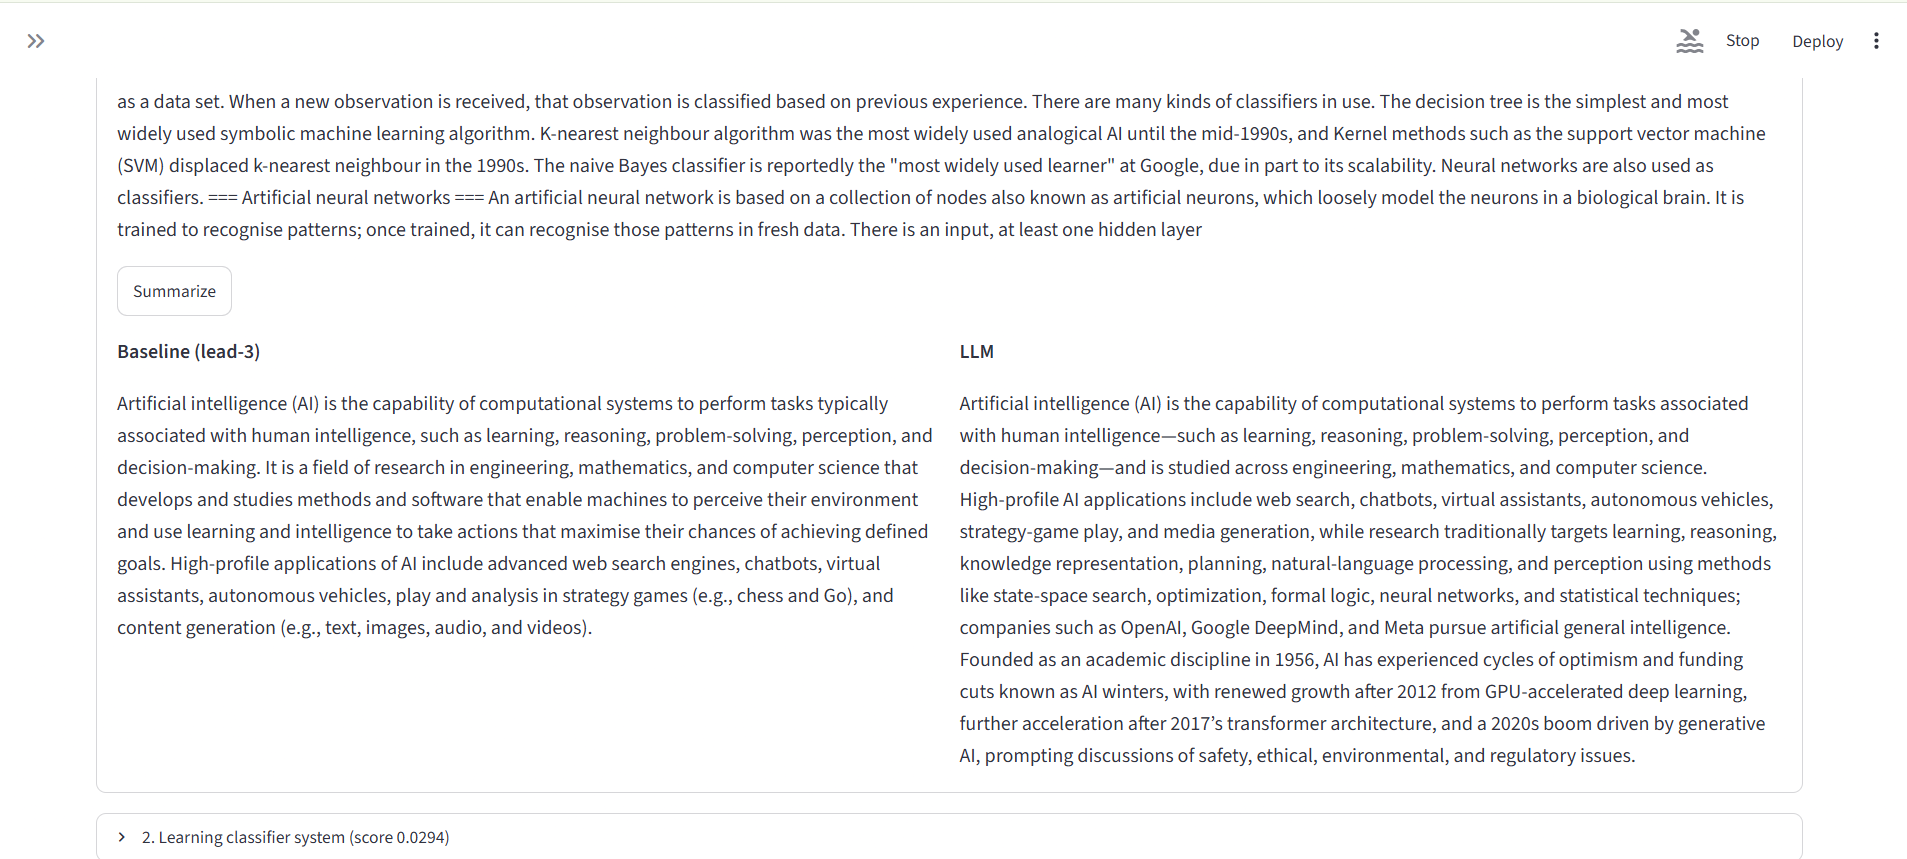
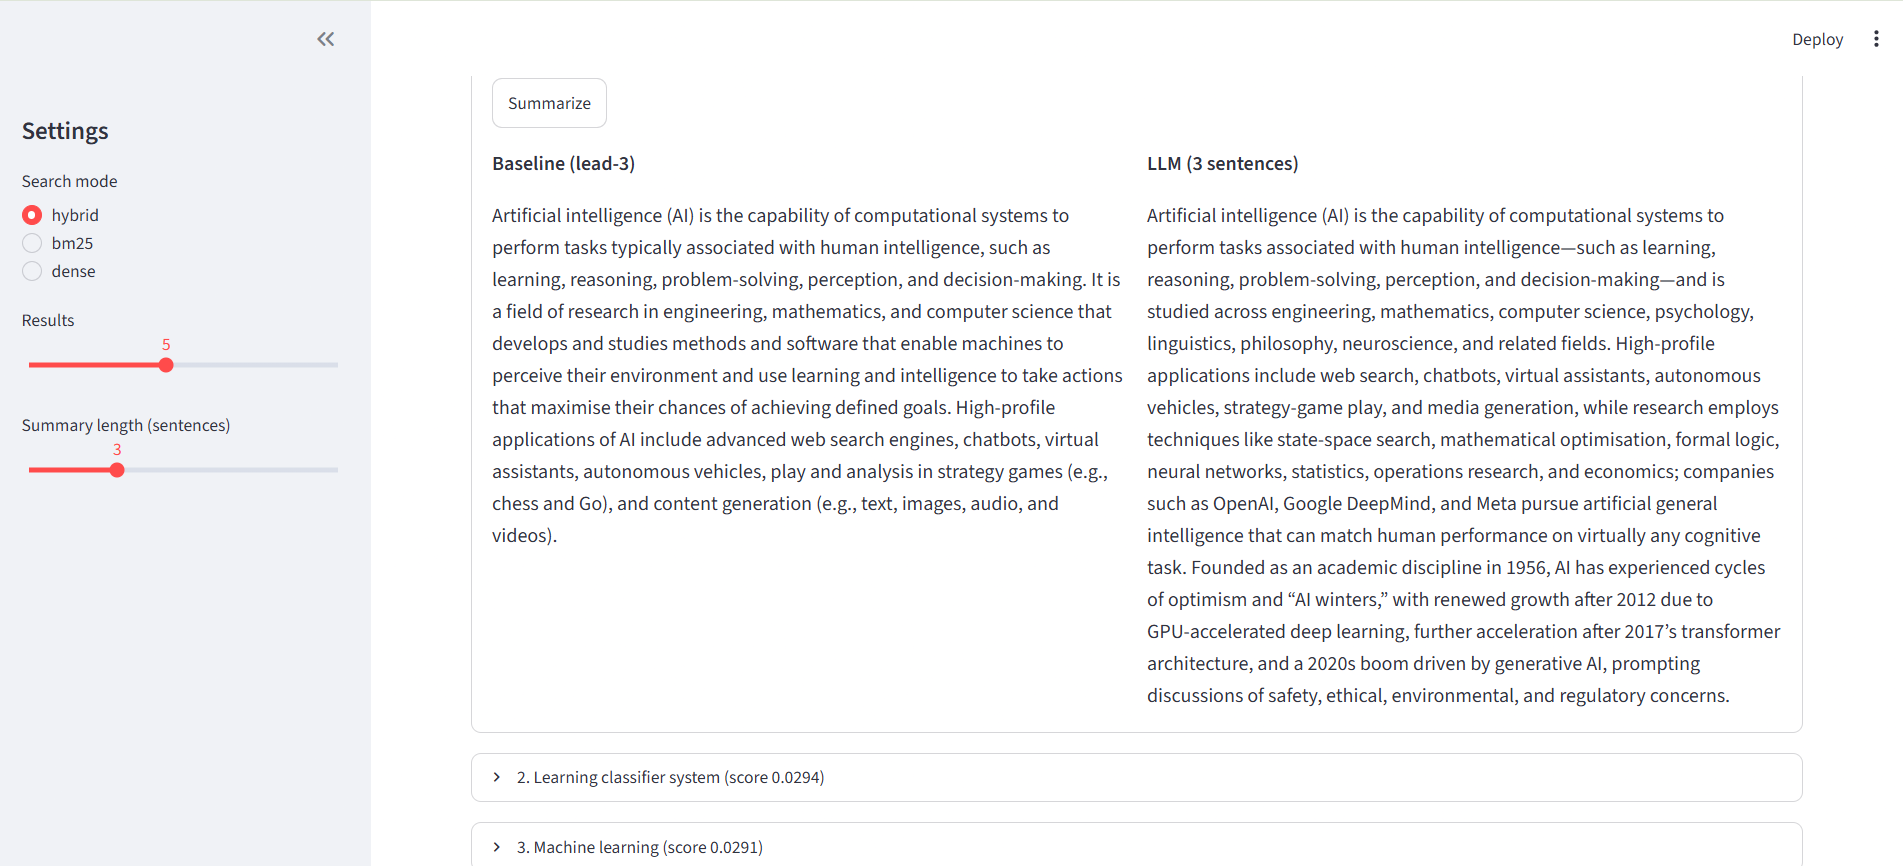
Task 5: summary length option, full report, updated README and screenshots

diff --git a/document_search/app.py b/document_search/app.py
@@ -12,8 +12,8 @@ def get_searcher():
 
 
 @st.cache_data(show_spinner=False)
-def get_llm_summary(doc_id, text):
-    return llm_summary(text)
+def get_llm_summary(doc_id, text, sentences):
+    return llm_summary(text, sentences=sentences)
 
 
 searcher = get_searcher()
@@ -26,6 +26,7 @@ with st.sidebar:
     st.header("Settings")
     mode = st.radio("Search mode", ["hybrid", "bm25", "dense"], index=0)
     k = st.slider("Results", 1, 10, 5)
+    n_sent = st.slider("Summary length (sentences)", 1, 8, 3)
 
 query = st.text_input("Search query", placeholder="e.g. how does backpropagation work")
 
@@ -42,14 +43,14 @@ if query.strip():
                 text = doc_text[r["doc_id"]]
                 col1, col2 = st.columns(2)
                 with col1:
-                    st.markdown("**Baseline (lead-3)**")
-                    st.write(baseline_summary(text))
+                    st.markdown(f"**Baseline (lead-{n_sent})**")
+                    st.write(baseline_summary(text, n=n_sent))
                 with col2:
-                    st.markdown("**LLM**")
+                    st.markdown(f"**LLM ({n_sent} sentences)**")
                     with st.spinner("LLM summarizing..."):
                         try:
-                            st.write(get_llm_summary(r["doc_id"], text))
+                            st.write(get_llm_summary(r["doc_id"], text, n_sent))
                         except Exception as e:
                             st.error(f"LLM error: {e}")
 else:
-    st.info("Type Your Query.")
+    st.info("Type your query.")

diff --git a/document_search/REPORT.md b/document_search/REPORT.md
@@ -5,13 +5,58 @@
 A search and summarization system over a 1000-article AI/ML Wikipedia corpus:
 
 - **Search:** BM25 + MiniLM (all-MiniLM-L6-v2) chunk embeddings, fused with Reciprocal Rank Fusion (RRF).
-- **Summarization:** lead-3 extractive baseline vs LLM abstractive summaries (Groq, openai/gpt-oss-120b).
-- **Evaluation:** Hit@5 / MRR for search, ROUGE and a blind human A/B test for summaries.
-- **UI:** Streamlit app (`app.py`).
+- **Summarization:** lead-N extractive baseline vs LLM abstractive summaries (Groq, openai/gpt-oss-120b). The user chooses the summary length (1-8 sentences).
+- **Evaluation:** Hit@5 / MRR for search; ROUGE and a blind human A/B test for summaries.
+- **UI:** Streamlit app (`app.py`) with search mode, number of results and summary length controls.
 
-## 2. Search Evaluation
+## 2. Data Preparation
 
-30 queries, a result counts as a hit if the expected article is in the top 5.
+### 2.1 Corpus
+
+English Wikipedia, AI/ML topics only, collected through the Wikipedia API (`collect_data.py`):
+
+- Articles from 8 root categories (Machine learning, Artificial intelligence, Deep learning, Natural language processing, Computer vision, Artificial neural networks, Reinforcement learning, Large language models), including up to 15 subcategories per category.
+- A list of 43 seed titles (core topics such as Backpropagation, Gradient descent, Support vector machine) added explicitly, so that the main concepts are always in the corpus.
+- Articles shorter than 500 characters are dropped (stubs and redirects have no useful content). The corpus is capped at 1000 articles.
+- Each document is stored as `id, title, url, text` in `data/documents.json`.
+
+Justification: a single-domain corpus keeps search evaluation meaningful (queries have clear expected articles), and Wikipedia gives long, well-structured text suitable for both search and summarization.
+
+### 2.2 Cleaning
+
+Wikipedia text contains LaTeX math markup (for example `{\displaystyle ...}`) that adds noise to summaries and snippets. `clean_text()` in `summarize.py`:
+
+- removes `{\displaystyle ...}` blocks (including nested braces) and leftover LaTeX commands,
+- removes empty brackets and parentheses left behind,
+- normalizes whitespace and stray spaces before punctuation.
+
+The cleaned text is used for summarization. The effect on ROUGE is described in section 4.1.
+
+### 2.3 Chunking
+
+For embeddings, each article is split into 150-word chunks with a 120-word step (30-word overlap), so a long article is not squeezed into one vector and a topic that appears in the middle of an article can still be found.
+
+## 3. Methodology
+
+### 3.1 Search
+
+1. **BM25** (`rank_bm25`) over title + full text of each article. Strong on exact keywords.
+2. **Dense retrieval:** all-MiniLM-L6-v2 embeddings of every chunk (normalized), cosine similarity with the query. The best chunk per article gives the article rank and the result snippet. Embeddings are computed once and cached in `data/chunk_embeddings.npy`.
+3. **Hybrid:** Reciprocal Rank Fusion with k=60 over the top 50 candidates of both rankings. RRF needs no score normalization between BM25 and cosine similarity.
+
+The top N results (N set by the user) are returned with title, URL, score and best-matching excerpt.
+
+### 3.2 Summarization
+
+- **Baseline:** lead-N, the first N sentences of the cleaned article.
+- **LLM:** the cleaned article (truncated to the first 12,000 characters) is sent to the LLM with a prompt asking for an N-sentence plain-text summary. The same N is used for the baseline in the UI, so both are compared at equal length.
+- Provider and model come from `.env` (`llm.py`), so the provider can be swapped without code changes.
+
+## 4. Evaluation
+
+### 4.1 Search
+
+Test set: 30 queries, each written to describe one expected article without naming it (for example "model memorizes training data and fails on new data" -> Overfitting). A query counts as a hit if the expected article is in the top 5.
 
 | Mode | Hit@5 | MRR |
 |---|---|---|
@@ -19,26 +64,26 @@ A search and summarization system over a 1000-article AI/ML Wikipedia corpus:
 | Dense | 0.800 | 0.558 |
 | Hybrid (RRF) | 0.867 | 0.611 |
 
-Hybrid is best on both metrics: +10 points Hit@5 over BM25 and +6.7 over dense. BM25 catches exact keyword matches, dense retrieval catches paraphrases, and RRF combines the two rankings without needing score normalization.
+Hybrid is best on both metrics: +10 points Hit@5 over BM25 and +6.7 over dense. BM25 catches exact keyword matches, dense retrieval catches paraphrases, and RRF combines the two rankings.
 
-**Observed weakness:** for the broad query "supervised learning", the top hybrid result was "Representation learning" rather than the "Supervised learning" article. Broad topic queries match many related articles that mention the term often, and chunk-level retrieval can favor a chunk with dense keyword usage over the article that is actually about the topic.
+**Observed weakness:** for the broad query "supervised learning", the top hybrid result was "Representation learning" instead of the "Supervised learning" article. Broad topic queries match many related articles that use the term heavily, and chunk-level retrieval can favor a keyword-dense chunk over the article that is actually about the topic.
 
-## 3. Summarization Evaluation
+### 4.2 Summaries: ROUGE
 
-### 3.1 ROUGE
-
-20 documents, the article's intro paragraph as reference, LaTeX removed by `clean_text`.
+20 documents, the article's intro paragraph as reference.
 
 | Method | ROUGE-1 | ROUGE-2 | ROUGE-L |
 |---|---|---|---|
 | Lead-3 baseline | 0.274 | 0.066 | 0.155 |
 | LLM | 0.305 | 0.051 | 0.153 |
 
+Before LaTeX cleaning the numbers were 0.264 / 0.060 / 0.149 (baseline) and 0.308 / 0.056 / 0.154 (LLM). Cleaning helped the baseline in all three metrics, because lead-3 copies the noisy text directly.
+
 The LLM is higher on ROUGE-1, lower on ROUGE-2, and tied on ROUGE-L. The reference is the article's own intro, and lead-3 copies the first sentences of the same text, so lead-3 has a built-in advantage in exact bigram overlap. The LLM paraphrases, which lowers exact n-gram matches even when the content is good. ROUGE alone therefore understates the LLM.
 
-### 3.2 Human evaluation
+### 4.3 Summaries: human evaluation
 
-10 documents, blind A/B (positions randomly shuffled, key stored separately), 1-5 rating for accuracy and coverage of the main point.
+10 documents, blind A/B (positions randomly shuffled, key stored in a separate file), 1-5 rating for accuracy and coverage of the main point.
 
 | Method | Average rating |
 |---|---|
@@ -47,25 +92,44 @@ The LLM is higher on ROUGE-1, lower on ROUGE-2, and tied on ROUGE-L. The referen
 
 Per-document comparison: LLM won 2, baseline won 1, tied 7.
 
-The LLM has a slight edge, but with only 10 samples and 7 ties the difference is not statistically meaningful. The two methods perform similarly on this corpus. The LLM's advantage showed up on articles whose opening sentences are definitions with missing formulas or lack the main topic (for example WaveNet, where lead-3 only covered text-to-speech background). Lead-3 does well when the opening paragraph is already a good summary.
+The LLM has a slight edge, but with only 10 samples and 7 ties the difference is not statistically meaningful. The LLM helped most on articles whose opening sentences do not state the main topic (for example WaveNet, where lead-3 only covered text-to-speech background). Lead-3 does well when the opening paragraph is already a good summary.
 
-## 4. Limitations
+## 5. Challenges and Solutions
+
+| Challenge | Solution |
+|---|---|
+| LaTeX markup in Wikipedia text made summaries and snippets noisy | Added `clean_text()` with brace-aware removal; baseline ROUGE improved on all metrics |
+| Some expected articles for test queries were missing from the corpus (category crawling alone does not guarantee core topics) | Added a seed title list so the main concepts are always collected; Hit@5 and MRR are measured only on queries whose expected article is in the corpus |
+| Gemini free-tier daily quota ran out during evaluation | `llm.py` supports multiple providers through `.env`; switched to Groq (openai/gpt-oss-120b) |
+| ROUGE favors extractive summaries when the intro is the reference | Added a blind human A/B evaluation and discussed the bias |
+| Human evaluation sheet could not be rated reliably in a spreadsheet | Wrote `rate_human_eval.py` to rate in the terminal and compute averages with the hidden key |
+| Large generated data (embeddings, corpus) should not live in git | `data/` is git-ignored; `collect_data.py` regenerates the corpus and the embedding cache is rebuilt on first run |
+
+## 6. Scalability and Efficiency
+
+- Chunk embeddings are computed once and cached, so startup after the first run only loads a `.npy` file.
+- The Streamlit app loads the search index once (`@st.cache_resource`), and LLM summaries are cached per document and length (`@st.cache_data`).
+- Dense search is a single matrix-vector product over all chunks, which is fine for thousands of documents. For millions of chunks, the next step would be an approximate nearest neighbor index (FAISS or HNSW) and an inverted-index BM25 engine.
+
+## 7. Limitations
 
 - **Text cleaning gaps:** removing LaTeX leaves broken phrases such as "is where is an increasing function", which hurts both methods.
 - **Reference choice:** using the intro paragraph as reference favors extractive methods under ROUGE.
 - **Small human eval:** 10 documents, one rater, so no inter-rater agreement and low statistical power.
-- **Small query set:** 30 queries, one expected article per query, so related-but-valid results count as misses.
+- **Small query set:** 30 queries, one expected article each, so related-but-valid results count as misses.
 - **Chunk snippets:** snippets can start mid-sentence and contain Wikipedia markup (`== Heading ==`).
-- **LLM cost and dependency:** LLM summaries need an API key and are rate-limited (the Gemini free tier quota ran out, so Groq is used).
+- **LLM dependency:** LLM summaries need an API key and are rate-limited on free tiers.
+- **No fine-tuning:** the LLM and embedding model are used as they are.
 
-## 5. Possible Improvements
+## 8. Possible Improvements
 
 - Strip Wikipedia section markup from snippets.
 - Add a cross-encoder reranker on the top 20 hybrid results.
 - Boost exact title matches for short broad queries.
+- Add pagination and query auto-suggestion to the UI.
 - Evaluate summaries with additional metrics (BERTScore) and more human raters.
 
-## 6. Screenshots
+## 9. Screenshots
 
 | Search results | Summaries side by side | Search modes |
 |---|---|---|

diff --git a/document_search/README.md b/document_search/README.md
@@ -1,6 +1,13 @@
 # Task 5: Document Search + Summarization
 
-Hybrid search (BM25 + dense embeddings + RRF) over a 1000-article AI/ML Wikipedia corpus, with LLM and lead-3 summaries, evaluated with ROUGE and a blind human A/B test. A Streamlit app ties it together.
+Hybrid search (BM25 + dense embeddings + RRF) over a 1000-article AI/ML Wikipedia corpus, with LLM and lead-N summaries, evaluated with ROUGE and a blind human A/B test. A Streamlit app ties it together. Full analysis in [REPORT.md](REPORT.md).
+
+## Features
+
+- Hybrid search: BM25 + MiniLM chunk embeddings + Reciprocal Rank Fusion, with a switch to compare `bm25`, `dense` and `hybrid`
+- Top-N results (1-10) with title, link, score and best-matching excerpt
+- Summaries on demand: LLM summary next to a lead-N baseline, with adjustable summary length (1-8 sentences)
+- Evaluation: Hit@5 / MRR for search, ROUGE and blind human A/B rating for summaries
 
 ## Setup
 
@@ -24,7 +31,7 @@ GROQ_MODEL=openai/gpt-oss-120b
 
 ## Run
 
-Run everything from this folder (paths are relative).
+Run everything from this folder (paths are relative). The `data/` folder is not in git, so run `collect_data.py` first.
 
 ```powershell
 python collect_data.py          # downloads Wikipedia articles -> data/documents.json
@@ -38,6 +45,14 @@ python rate_human_eval.py       # rate in terminal, prints averages
 
 Warning: `make_human_eval.py` reshuffles A/B and overwrites the key. Do not re-run it after rating.
 
+## Using the web app
+
+1. Type a query (for example `how does backpropagation work`).
+2. Sidebar: choose the search mode, the number of results and the summary length.
+3. Open a result and click **Summarize** to see the lead-N baseline and the LLM summary side by side.
+
+The first start takes longer because the model loads and, on a fresh clone, the embeddings are built once.
+
 ## Files
 
 | File | Purpose |
@@ -45,12 +60,14 @@ Warning: `make_human_eval.py` reshuffles A/B and overwrites the key. Do not re-r
 | `collect_data.py` | Wikipedia API crawler (categories + seed titles) |
 | `search.py` | `HybridSearcher`: BM25, MiniLM chunk embeddings (cached), RRF fusion |
 | `llm.py` | `generate()` wrapper, provider chosen via `.env` |
-| `summarize.py` | `clean_text`, lead-3 baseline, LLM summary |
+| `summarize.py` | `clean_text`, lead-N baseline, LLM summary |
 | `evaluate_search.py` | Retrieval evaluation on 30 queries |
 | `evaluate_summaries.py` | ROUGE evaluation on 20 docs |
 | `make_human_eval.py`, `rate_human_eval.py` | Blind human evaluation |
 | `app.py` | Streamlit UI |
-| `REPORT.md` | Full results and analysis |
+| `REPORT.md` | Full report: preprocessing, methodology, evaluation, challenges |
+| `screenshots/` | UI screenshots |
+| `results/` | Summaries, human ratings and key |
 
 ## Design choices
 
@@ -58,7 +75,7 @@ Warning: `make_human_eval.py` reshuffles A/B and overwrites the key. Do not re-r
 - **Hybrid retrieval:** BM25 handles exact keywords, dense embeddings handle paraphrases, Reciprocal Rank Fusion (k=60) merges the rankings without score normalization.
 - **Chunking:** 150-word chunks with 120-word step for embeddings; the best chunk becomes the result snippet. Embeddings are cached in `data/chunk_embeddings.npy`.
 - **Text cleaning:** Wikipedia LaTeX (`{\displaystyle ...}`) is removed before summarization.
-- **Summaries:** lead-3 extractive baseline vs LLM abstractive summary.
+- **Summaries:** lead-N extractive baseline vs LLM abstractive summary, same length for both.
 
 ## Results
 
@@ -77,8 +94,10 @@ Summaries (20 docs, intro paragraph as reference):
 | Lead-3 | 0.274 | 0.066 | 0.155 |
 | LLM | 0.305 | 0.051 | 0.153 |
 
-Human eval (10 docs, blind A/B, 1-5): lead-3 avg 4.60, LLM avg 4.80. Details in `REPORT.md`.
+Human eval (10 docs, blind A/B, 1-5): lead-3 avg 4.60, LLM avg 4.80.
 
 ## Screenshots
 
-See `screenshots/`.
+![Search results](screenshots/01_search_results.png)
+![Summaries](screenshots/02_summarize.png)
+![Search modes](screenshots/03_modes.png)
